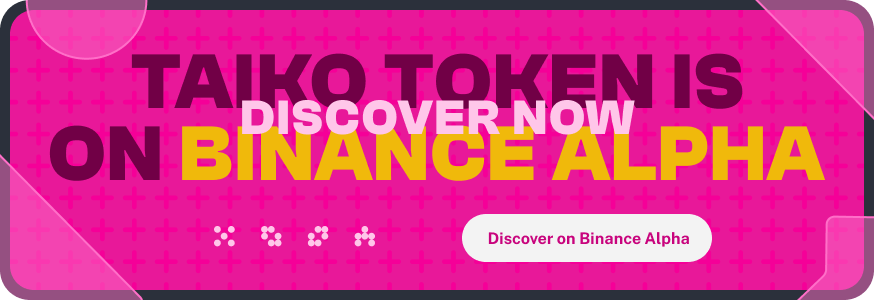
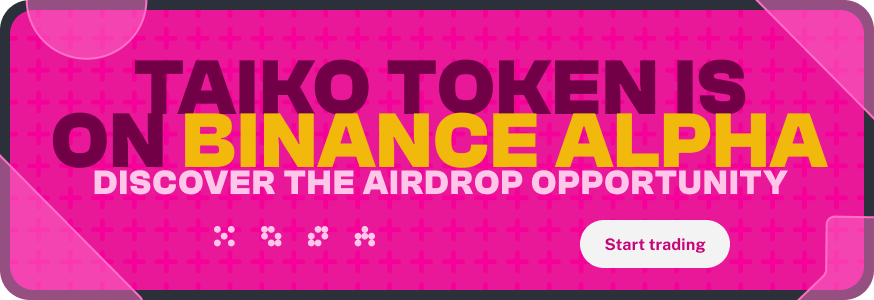
updated modal and graphics

Changed region(s): [[0.0309, 0.18, 0.9577, 0.66], [0.5252, 0.69, 0.8341, 0.9]]

diff --git a/src/lib/shared/components/Modals/BinanceAlphaModal/BinanceAlpha.modal.svelte b/src/lib/shared/components/Modals/BinanceAlphaModal/BinanceAlpha.modal.svelte
@@ -44,7 +44,7 @@
     'm-0',
     'text-[24px]/[95%]',
   );
-  const bodyWrapperClasses = classNames('text-grey-200', 'font-public-sans', 'px-[24px]', 'flex', 'flex-col');
+  const bodyWrapperClasses = classNames('text-grey-200', 'font-public-sans', 'pt-[24px]', 'px-[24px]', 'flex', 'flex-col');
 /*
   TaikoStatusModalStore.subscribe(async (open) => {
     if (open) {
@@ -71,11 +71,12 @@
   const buttonWrapperClasses = classNames(
     'w-full',
     'py-[20px]',
-    'md:col-span-2',
+   // 'md:col-span-2',
     'h-max',
-    'px-[24px]',
-    'flex',
-    'justify-end','items-center',
+   // 'px-[24px]',
+    'grid grid-cols-1 md:grid-cols-3 gap-[24px]',
+    //  'flex',
+   // 'justify-end','items-center',
   );
 
   const statusProgressWrapperClasses = classNames(
@@ -99,8 +100,9 @@
   const taikoStatusProgressClasses = classNames('progress', 'w-full', 'progress-primary', 'h-[16px]');
 
   const closeButtonClasses = classNames(
-    'w-[50px]',
-    'h-[50px]',
+    //'w-[50px]',
+    'w-full',
+    'h-[58px]',
     'bg-grey-600',
     'rounded-full',
     'text-grey-100',
@@ -115,9 +117,7 @@
   const contentTitleClasses = classNames('font-clash-grotesk', 'text-[25px]/[42px]', 'text-grey-10');
 
   const textWrapperClasses = classNames('flex', 'w-full', 'flex-col', 'gap-[24px]', 'pb-[40px]');
-  function closeModal() {
-    TaikoStatusModalStore.set(false);
-  }
+ 
 
   function showModal() {
     TaikoStatusModalStore.set(true);
@@ -152,11 +152,12 @@
   })
 
       const termsKey = 'hideBinanceAlphaAlert'
-function acceptTerms() {
+function closeModal() {
     if (isTermsChecked){
         localStorage.setItem(termsKey, 'true');
     }
-    closeModal()
+        TaikoStatusModalStore.set(false);
+
   }
 
     $: isTermsChecked = false;
@@ -185,15 +186,6 @@ function acceptTerms() {
 {#if $TaikoStatusModalStore}
   <div transition:fade class={modalClasses}>
     <div class={modalContentWrapperClasses}>
-      <div class={modalTitleClasses}>
-        <span>AAA</span>
-
-        <button class={closeButtonClasses} on:click={closeModal}>
-          <Icon type="x-close" class={closeButtonIconClasses} size={24} />
-        </button>
-      </div>
-
-      <div class={classNames('divider')}></div>
       <div>
         <div class={bodyWrapperClasses}>
           <div class={textWrapperClasses}>
@@ -207,7 +199,9 @@ Trade TAIKO tokens on Binance Alpha and earn rewards!
           <div class={dataWrapperClasses}>
           
             <div class={wideInfoPanelClasses}>
-              <BinanceAlphaBanner/>
+              <img 
+              alt="Binance Alpha Banner"
+              src="/banner/binance-alpha/panel.png"/>
             </div>
           </div>
 
@@ -216,6 +210,13 @@ Trade TAIKO tokens on Binance Alpha and earn rewards!
         <input type="checkbox" bind:checked={isTermsChecked} class="checkbox border bg-overlay-background" />
         <span class="label-text text-content-secondary">Don't show this again</span>
       </label>
+ <button  class={closeButtonClasses} on:click={closeModal}>
+         Close
+        </button>
+
+       <ActionButton priority="primary" on:click={closeModal}>
+         Let's Go
+        </ActionButton>
           </div>
 
         </div>
